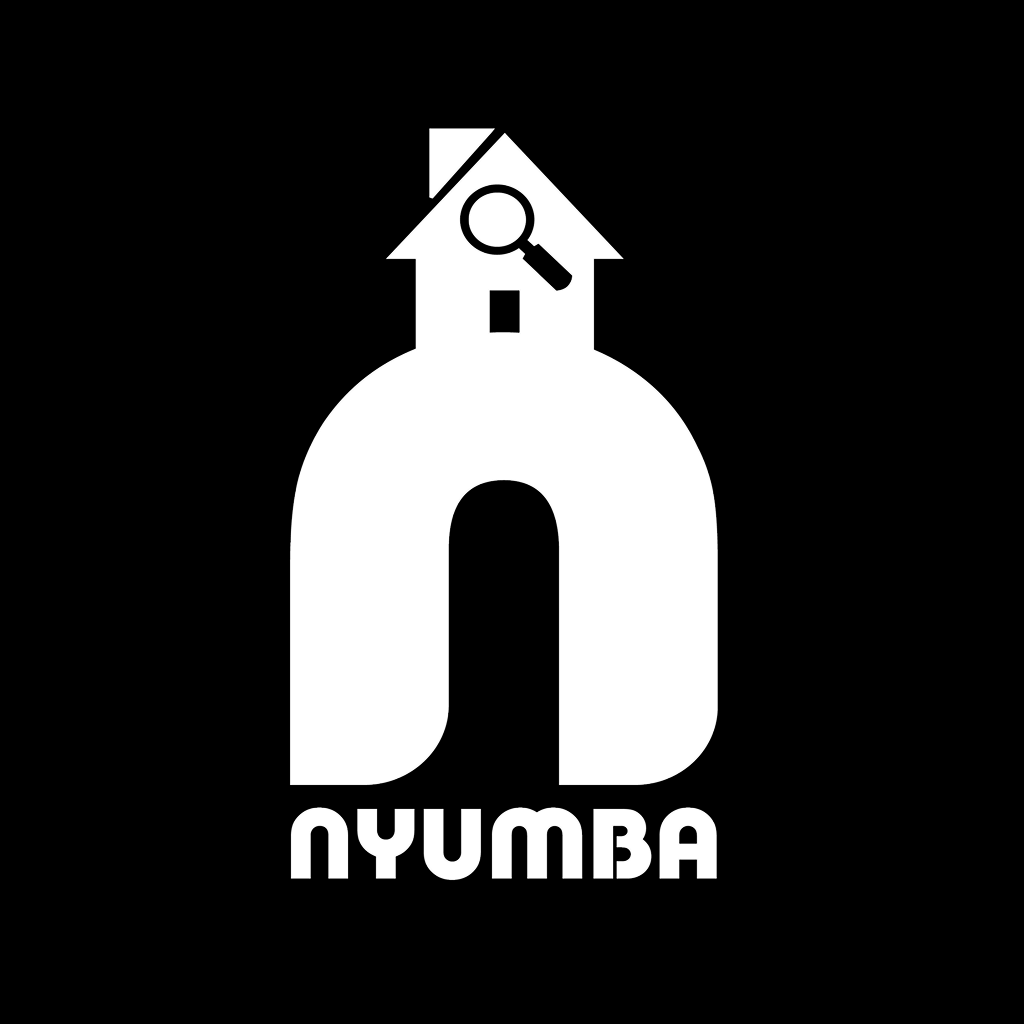
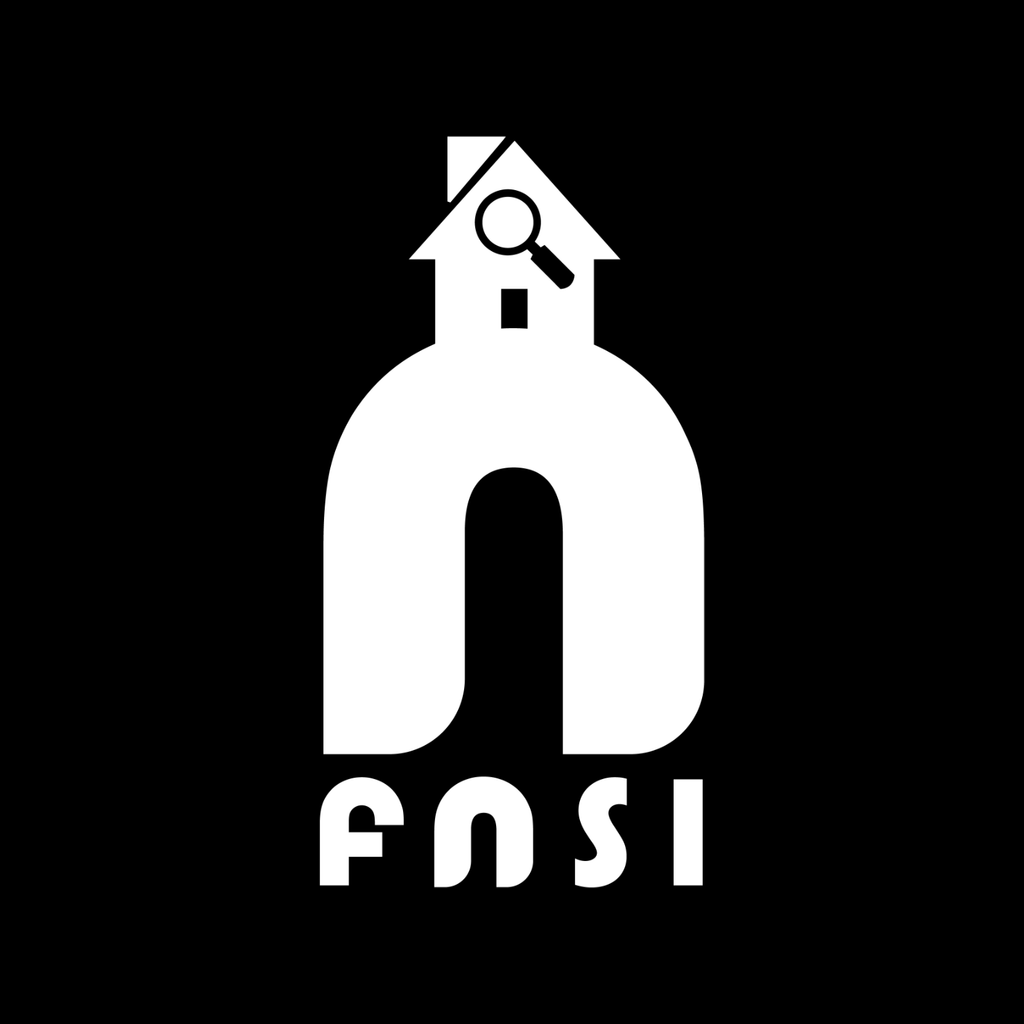
feat: rebrand Nyumba to Fasi
- Regenerate the app icons (iOS light/dark), splash logos and favicon
  with the Fasi logo, same size and position as before
- Display name "Fasi" and location permission messages in app.json
- Rename "Nyumba" in the login, register, map and directions screens

Bundle identifier, Android package, slug, scheme and storage keys are
unchanged so store updates, EAS and existing sessions keep working.

diff --git a/app/(tabs)/index.tsx b/app/(tabs)/index.tsx
@@ -127,7 +127,7 @@ const LABELS = {
     widenRadius: 'Élargir',
     locationOffTitle: 'Position désactivée',
     locationOffBody:
-      "Nyumba n'a pas accès à votre position, la carte ne peut donc pas vous situer ni trier les lieux par proximité. Vous pouvez l'autoriser dans les réglages.",
+      "Fasi n'a pas accès à votre position, la carte ne peut donc pas vous situer ni trier les lieux par proximité. Vous pouvez l'autoriser dans les réglages.",
     openSettings: 'Ouvrir les réglages',
     cancel: 'Plus tard',
   },
@@ -177,7 +177,7 @@ const LABELS = {
     widenRadius: 'Widen',
     locationOffTitle: 'Location off',
     locationOffBody:
-      'Nyumba cannot access your location, so the map cannot centre on you or sort places by distance. You can allow it in Settings.',
+      'Fasi cannot access your location, so the map cannot centre on you or sort places by distance. You can allow it in Settings.',
     openSettings: 'Open Settings',
     cancel: 'Later',
   },

diff --git a/app/annonces/directions.tsx b/app/annonces/directions.tsx
@@ -72,7 +72,7 @@ const LABELS = {
     retry: 'Réessayer',
     permissionTitle: 'Position nécessaire',
     permissionBody:
-      "Pour tracer un itinéraire, Nyumba a besoin de savoir d'où vous partez.",
+      "Pour tracer un itinéraire, Fasi a besoin de savoir d'où vous partez.",
     openSettings: 'Ouvrir les réglages',
     noKey: 'Le service de calcul d’itinéraire n’est pas configuré.',
     noRoute: 'Aucun itinéraire trouvé jusqu’à ce lieu.',
@@ -93,7 +93,7 @@ const LABELS = {
     retry: 'Try again',
     permissionTitle: 'Location needed',
     permissionBody:
-      'To draw a route, Nyumba needs to know where you are starting from.',
+      'To draw a route, Fasi needs to know where you are starting from.',
     openSettings: 'Open Settings',
     noKey: 'The routing service is not configured.',
     noRoute: 'No route found to this place.',

diff --git a/app/(auth)/login.tsx b/app/(auth)/login.tsx
@@ -93,7 +93,7 @@ export default function LoginScreen() {
             style={{ color: colors.text, letterSpacing: -0.8 }}
             className="mb-2 font-body-bold text-3xl"
           >
-            Bienvenue sur Nyumba.
+            Bienvenue sur Fasi.
           </Text>
           <Text
             style={{ color: colors.textMuted }}

diff --git a/app/(auth)/register.tsx b/app/(auth)/register.tsx
@@ -134,7 +134,7 @@ export default function RegisterScreen() {
             style={{ color: colors.text }}
             className="font-body-bold text-3xl"
           >
-            Rejoignez Nyumba
+            Rejoignez Fasi
           </Text>
           <Text
             style={{ color: colors.textMuted }}

diff --git a/constants/theme.ts b/constants/theme.ts
@@ -1,5 +1,5 @@
 /**
- * Nyumba — Centralized Theme Tokens
+ * Fasi — Centralized Theme Tokens
  *
  * This file is the **single source of truth** for every colour used across the
  * app. Screens and components should never hard-code hex values; they import

diff --git a/constants/map.ts b/constants/map.ts
@@ -1,5 +1,5 @@
 /**
- * Nyumba — Configuration Mapbox
+ * Fasi — Configuration Mapbox
  *
  * Le style « Standard » (Mapbox v11) porte nativement les bâtiments, reliefs et
  * repères en 3D : il suffit de l'incliner (`pitch`) pour obtenir la vue 3D.

diff --git a/constants/branding.ts b/constants/branding.ts
@@ -1,5 +1,5 @@
 /**
- * Nyumba — Logo assets
+ * Fasi — Logo assets
  *
  * Les fichiers sont nommés d'après **l'encre du logo**, pas d'après le thème :
  *   - `splash-icon-dark.png`  → logo bleu nuit, destiné aux fonds CLAIRS
